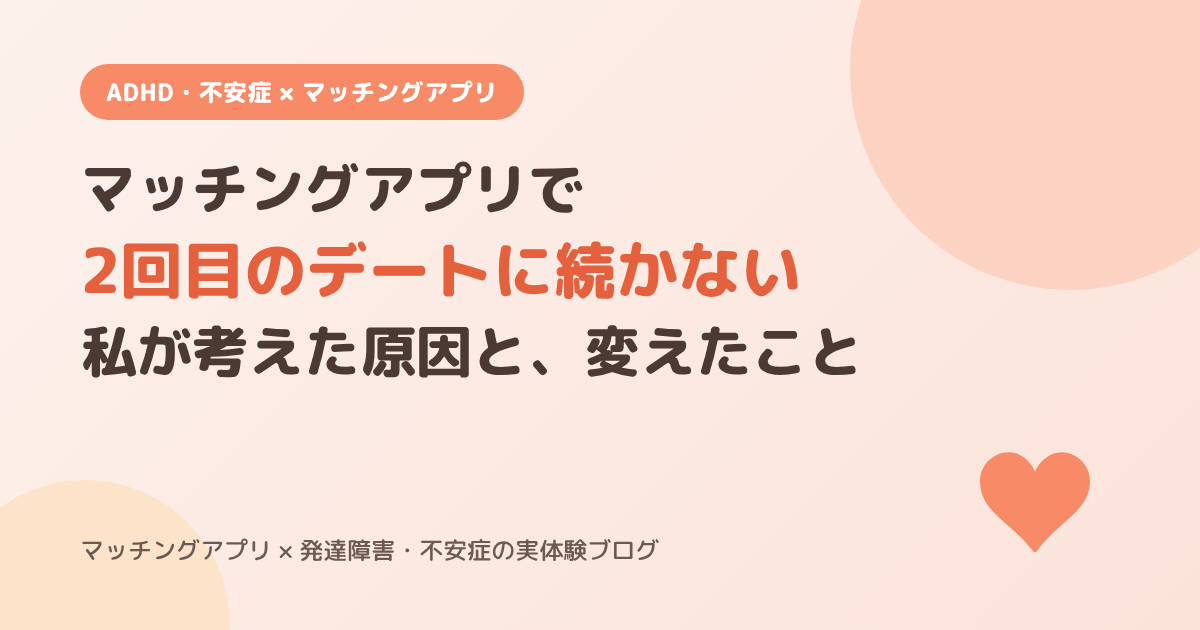
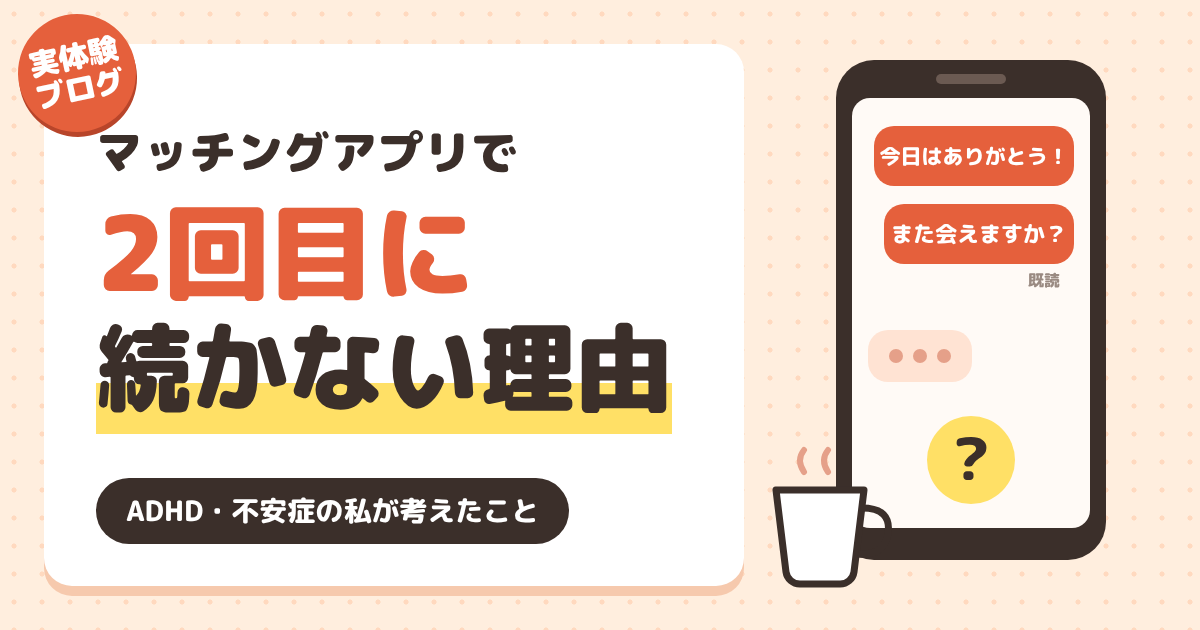
投稿311のアイキャッチを人気ブログ風のデザインに作り直し
Claude-Session: https://claude.ai/code/session_01AbwgezYxuzkhNMxoZh4PnK

diff --git a/ブログジャンル選定/作業メモ_ブログ改善.md b/ブログジャンル選定/作業メモ_ブログ改善.md
@@ -11,7 +11,7 @@
 | 10/18 | 投稿264「失恋して、ぐるぐる考えてしまう」をCocoon標準の装飾で改稿・反映 |
 | 10/22 | 投稿295・243の装飾をCocoon標準にそろえた／Sample Pageを非公開、Hello world!をゴミ箱へ／カテゴリを6つに再編して全37記事を振り分け（変更前は backup/categories_before_2026-10.json） |
 | 10/9〜 | 投稿243「シングルマザーとの恋愛が難しいと感じた理由」を改稿して反映（元の本文は backup/post_243_original.html） |
-| 11/1 | 新記事「マッチングアプリで2回目のデートに続かない…」を下書き作成（投稿311、カテゴリ：恋愛・婚活、アイキャッチ eyecatch_2kaime-tsuzukanai.png／メディアID 314） |
+| 11/1 | 新記事「マッチングアプリで2回目のデートに続かない…」を下書き作成（投稿311、カテゴリ：恋愛・婚活、アイキャッチ eyecatch_2kaime-tsuzukanai.png／メディアID 315。旧版314は未使用） |
 
 ※ 投稿295・243はどちらも「公開」状態のまま上書きしています。
 
